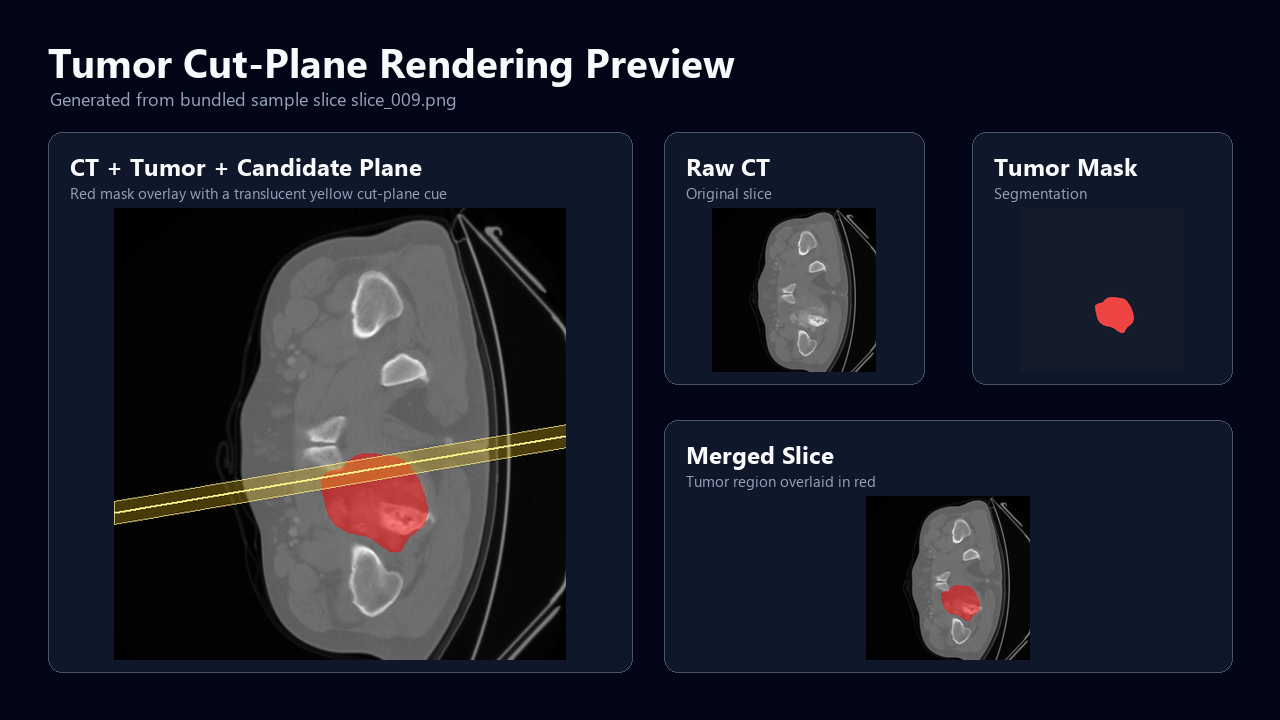
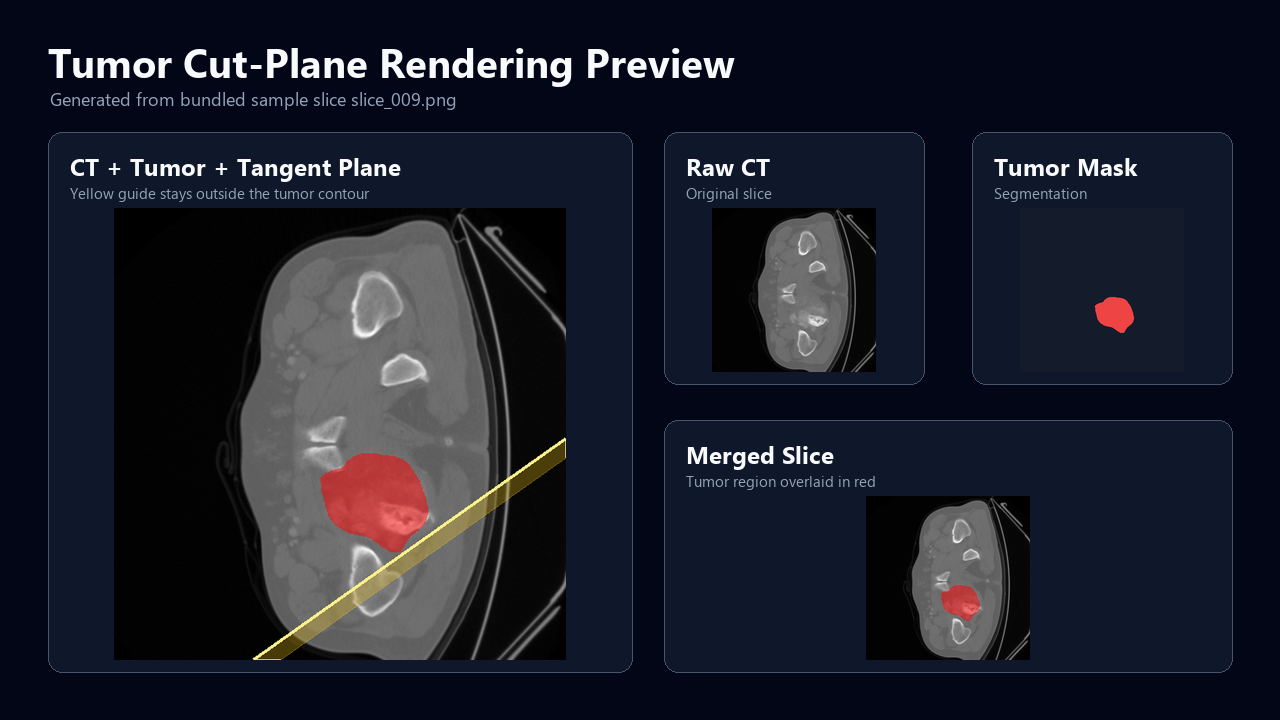
Fix README preview tangent plane

Changed region(s): [[0.0625, 0.5806, 0.4688, 0.9167], [0.0625, 0.2139, 0.3438, 0.275]]

diff --git a/render_preview.py b/render_preview.py
@@ -40,19 +40,72 @@ def mask_to_preview(mask_image):
     return Image.fromarray(preview)
 
 
-def add_cut_plane_hint(image):
+def line_box_points(normal, offset, width, height):
+    nx, ny = normal
+    candidates = []
+
+    if abs(ny) > 1e-9:
+        for x in (0.0, float(width - 1)):
+            y = (offset - nx * x) / ny
+            if 0 <= y <= height - 1:
+                candidates.append((x, y))
+
+    if abs(nx) > 1e-9:
+        for y in (0.0, float(height - 1)):
+            x = (offset - ny * y) / nx
+            if 0 <= x <= width - 1:
+                candidates.append((x, y))
+
+    unique = []
+    for point in candidates:
+        if not any(np.linalg.norm(np.array(point) - np.array(existing)) < 1e-6 for existing in unique):
+            unique.append(point)
+
+    if len(unique) < 2:
+        raise ValueError("Could not intersect cut-plane guide with the image bounds.")
+
+    direction = np.array([-ny, nx])
+    unique.sort(key=lambda point: float(np.dot(point, direction)))
+    return unique[0], unique[-1]
+
+
+def tangent_plane_band(mask, normal, clearance=4.0, band_width=18.0):
+    y_coords, x_coords = np.nonzero(mask)
+    if len(x_coords) == 0:
+        raise ValueError("Cannot place a tangent plane without a tumor mask.")
+
+    points = np.column_stack([x_coords, y_coords]).astype(float)
+    support = float(np.max(points @ normal))
+    inner_offset = support + clearance
+    outer_offset = inner_offset + band_width
+
+    height, width = mask.shape
+    inner_points = line_box_points(normal, inner_offset, width, height)
+    outer_points = line_box_points(normal, outer_offset, width, height)
+    polygon = [inner_points[0], inner_points[1], outer_points[1], outer_points[0]]
+
+    yy, xx = np.mgrid[0:height, 0:width]
+    signed_distance = xx * normal[0] + yy * normal[1]
+    band_mask = (signed_distance >= inner_offset) & (signed_distance <= outer_offset)
+    return polygon, inner_points, outer_points, band_mask
+
+
+def add_cut_plane_hint(image, mask_image):
     preview = image.convert("RGBA")
+    mask = np.asarray(mask_image.convert("L")) > 240
+    normal = np.array([0.58, 0.82], dtype=float)
+    normal = normal / np.linalg.norm(normal)
+    polygon, inner_points, outer_points, band_mask = tangent_plane_band(mask, normal)
+
     overlay = Image.new("RGBA", preview.size, (0, 0, 0, 0))
     draw = ImageDraw.Draw(overlay, "RGBA")
-    width, height = preview.size
-    band = [
-        (0, int(height * 0.65)),
-        (width, int(height * 0.48)),
-        (width, int(height * 0.53)),
-        (0, int(height * 0.70)),
-    ]
-    draw.polygon(band, fill=(250, 204, 21, 72), outline=(254, 240, 138, 220))
-    draw.line([(0, int(height * 0.675)), (width, int(height * 0.505))], fill=(254, 240, 138, 255), width=3)
+    draw.polygon(polygon, fill=(250, 204, 21, 72), outline=(254, 240, 138, 220))
+    draw.line(inner_points, fill=(254, 240, 138, 255), width=3)
+    draw.line(outer_points, fill=(250, 204, 21, 110), width=1)
+
+    if np.any(band_mask & mask):
+        raise ValueError("Cut-plane preview overlaps the tumor mask.")
+
     return Image.alpha_composite(preview, overlay).convert("RGB")
 
 
@@ -90,7 +143,7 @@ def build_preview(ct_folder, segmentation_folder, merged_folder, output_file, sl
     ct_image = Image.open(ct_path / selected_slice).convert("RGB")
     segmentation_image = Image.open(segmentation_path / selected_slice).convert("RGB")
     merged_image = Image.open(merged_path / selected_slice).convert("RGB")
-    merged_with_plane = add_cut_plane_hint(merged_image)
+    merged_with_plane = add_cut_plane_hint(merged_image, segmentation_image)
 
     canvas = Image.new("RGB", (1280, 720), (2, 6, 23))
     draw = ImageDraw.Draw(canvas)
@@ -105,8 +158,8 @@ def build_preview(ct_folder, segmentation_folder, merged_folder, output_file, sl
     draw_panel(
         canvas,
         (48, 132, 584, 540),
-        "CT + Tumor + Candidate Plane",
-        "Red mask overlay with a translucent yellow cut-plane cue",
+        "CT + Tumor + Tangent Plane",
+        "Yellow guide stays outside the tumor contour",
         merged_with_plane,
     )
     draw_panel(canvas, (664, 132, 260, 252), "Raw CT", "Original slice", ct_image)